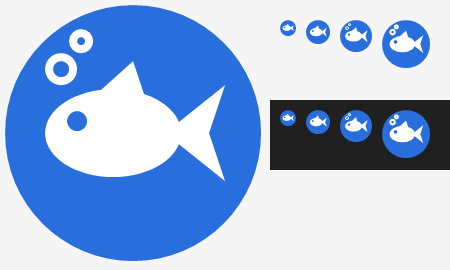
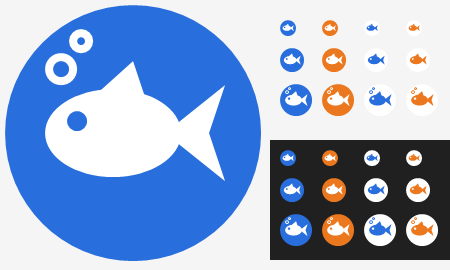
Tray fish shows current layout and blinks after a correction

Changed region(s): [[0.5911, 0.2963, 1.0, 0.9778], [0.6844, 0.0593, 0.9644, 0.2667], [0.6222, 0.1778, 0.6844, 0.2667]]

diff --git a/Program.cs b/Program.cs
@@ -40,6 +40,44 @@ class App : ApplicationContext
     readonly KeyboardWatcher watcher;
     bool busy;
 
+    // Рыбка в трее: синяя — английская раскладка, оранжевая — русская, мигает после автоисправления
+    Icon iconEn, iconRu, blinkEn, blinkRu;
+    bool showLayout, currentRu;
+    int seenCorrections, blinkTicks;
+    readonly System.Windows.Forms.Timer trayTimer = new System.Windows.Forms.Timer();
+    readonly int ownPid = Process.GetCurrentProcess().Id;
+
+    void UpdateTrayIcon()
+    {
+        IntPtr fg = W.GetForegroundWindow();
+        uint pid;
+        W.GetWindowThreadProcessId(fg, out pid);
+        string cls = W.ClassName(fg);
+        // Пока открыт трей или меню, раскладку панели задач не показываем — она не та, в которой печатают
+        if (fg != IntPtr.Zero && pid != ownPid && cls != "Shell_TrayWnd" && cls != "NotifyIconOverflowWindow"
+            && cls != "TopLevelWindowForOverflowXamlIsland")
+        {
+            int lang = W.LayoutLanguage(fg);
+            if (lang == 0x19) currentRu = true;
+            else if (lang == 0x09) currentRu = false;
+        }
+
+        int corrections = watcher.CorrectionCount;
+        if (corrections != seenCorrections)
+        {
+            seenCorrections = corrections;
+            blinkTicks = 4;
+        }
+
+        bool ru = showLayout && currentRu;
+        Icon want = blinkTicks > 0 && blinkTicks % 2 == 0 ? (ru ? blinkRu : blinkEn) : (ru ? iconRu : iconEn);
+        if (blinkTicks > 0) blinkTicks--;
+        if (tray.Icon != want) tray.Icon = want;
+
+        string text = "LayoutFix " + Application.ProductVersion + (showLayout ? (currentRu ? " — RU" : " — EN") : "");
+        if (tray.Text != text) tray.Text = text;
+    }
+
     static void ShowAbout()
     {
         string changes = "";
@@ -102,8 +140,17 @@ class App : ApplicationContext
         menu.Items.Add(new ToolStripMenuItem("Pause сразу после автоисправления — отменить") { Enabled = false });
         menu.Items.Add(new ToolStripMenuItem("Shift+F3 — регистр (aa → Aa → AA)") { Enabled = false });
         menu.Items.Add(new ToolStripSeparator());
+        var layoutColor = new ToolStripMenuItem("Цвет рыбки по раскладке") { Checked = GetSetting("LayoutColor", 1) != 0 };
+        layoutColor.Click += (s, e) =>
+        {
+            showLayout = !showLayout;
+            layoutColor.Checked = showLayout;
+            SetSetting("LayoutColor", showLayout ? 1 : 0);
+        };
+
         menu.Items.Add(auto);
         menu.Items.Add(typos);
+        menu.Items.Add(layoutColor);
         menu.Items.Add("Программы-исключения…", null, (s, e) => Process.Start("notepad.exe", "\"" + exclusions + "\""));
         menu.Items.Add("Слова, которые не исправлять…", null, (s, e) =>
         {
@@ -114,10 +161,20 @@ class App : ApplicationContext
         menu.Items.Add("О программе и что нового…", null, (s, e) => ShowAbout());
         menu.Items.Add("Выход", null, (s, e) => ExitThread());
 
-        tray.Icon = MakeIcon();
-        tray.Text = "LayoutFix " + Application.ProductVersion + ": EN ⇄ RU";
+        iconEn = MakeIcon("fish.ico");
+        iconRu = MakeIcon("fish-ru.ico");
+        blinkEn = MakeIcon("fish-blink.ico");
+        blinkRu = MakeIcon("fish-ru-blink.ico");
+        showLayout = GetSetting("LayoutColor", 1) != 0;
+
+        tray.Icon = iconEn;
+        tray.Text = "LayoutFix " + Application.ProductVersion;
         tray.ContextMenuStrip = menu;
         tray.Visible = true;
+
+        trayTimer.Interval = 150;
+        trayTimer.Tick += (s, e) => UpdateTrayIcon();
+        trayTimer.Start();
 
         if (!okPause || !okSpace || !okCase)
             tray.ShowBalloonTip(4000, "LayoutFix",
@@ -297,10 +354,10 @@ class App : ApplicationContext
         }
     }
 
-    static Icon MakeIcon()
+    static Icon MakeIcon(string name)
     {
-        // Значок-рыбка (fish.ico рисует tools\make-icon.ps1); для трея берём маленький размер с учётом масштаба экрана
-        using (var s = typeof(App).Assembly.GetManifestResourceStream("fish.ico"))
+        // Значки-рыбки рисует tools\make-icon.ps1; для трея берём маленький размер с учётом масштаба экрана
+        using (var s = typeof(App).Assembly.GetManifestResourceStream(name))
             return new Icon(s, SystemInformation.SmallIconSize);
     }
 

diff --git a/KeyboardWatcher.cs b/KeyboardWatcher.cs
@@ -50,6 +50,8 @@ class KeyboardWatcher
     }
 
     public volatile bool Enabled = true;
+    int correctionCount;
+    public int CorrectionCount { get { return Volatile.Read(ref correctionCount); } }
     volatile bool fixTypos;
     SpellService spell;
     readonly object spellSync = new object();
@@ -333,6 +335,7 @@ class KeyboardWatcher
             LastWordLength = fixedCase.Length, TerminatorVk = terminatorVk, OriginalRu = typedRu, Hwnd = hwnd
         };
         pending = true;
+        Interlocked.Increment(ref correctionCount);
         jobs.Add(new Job
         {
             Backspaces = backspaces,
@@ -400,6 +403,7 @@ class KeyboardWatcher
             };
             rec.Shown = text;
             rec.Changed = true;
+            Interlocked.Increment(ref correctionCount);
         }
         Execute(new Job { Backspaces = typed.Length + 1, Text = text, TerminatorVk = job.TerminatorVk, Hwnd = job.Hwnd });
     }
